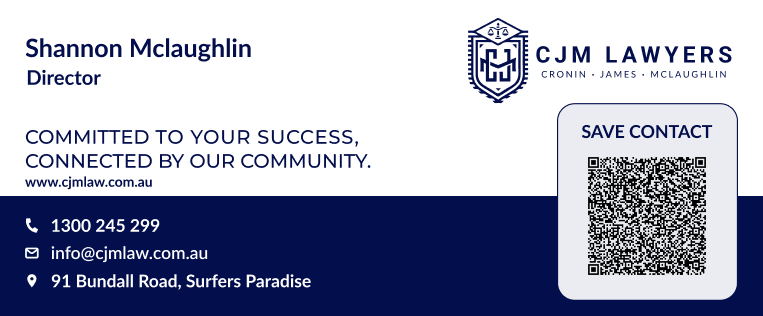
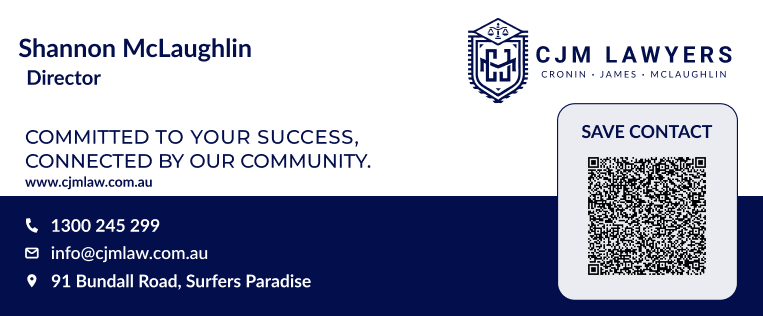
feat: changed the email signature

Changed region(s): [[0.0301, 0.1139, 0.2412, 0.1994]]

diff --git a/index.html b/index.html
@@ -8,7 +8,7 @@
         <link rel="stylesheet" href="">
     </head>
     <body>
-        <a href="mailto:info@cjmlaw.com.au"><img src="" alt=""></a>
+        <a href="mailto:info@cjmlaw.com.au"><img src="https://raw.githubusercontent.com/noucodes/CJMEmailSignature/refs/heads/main/img/Personalised.png" alt="Shannon McLaughlin Email Signature"></a>
         
         <script src="" async defer></script>
     </body>
